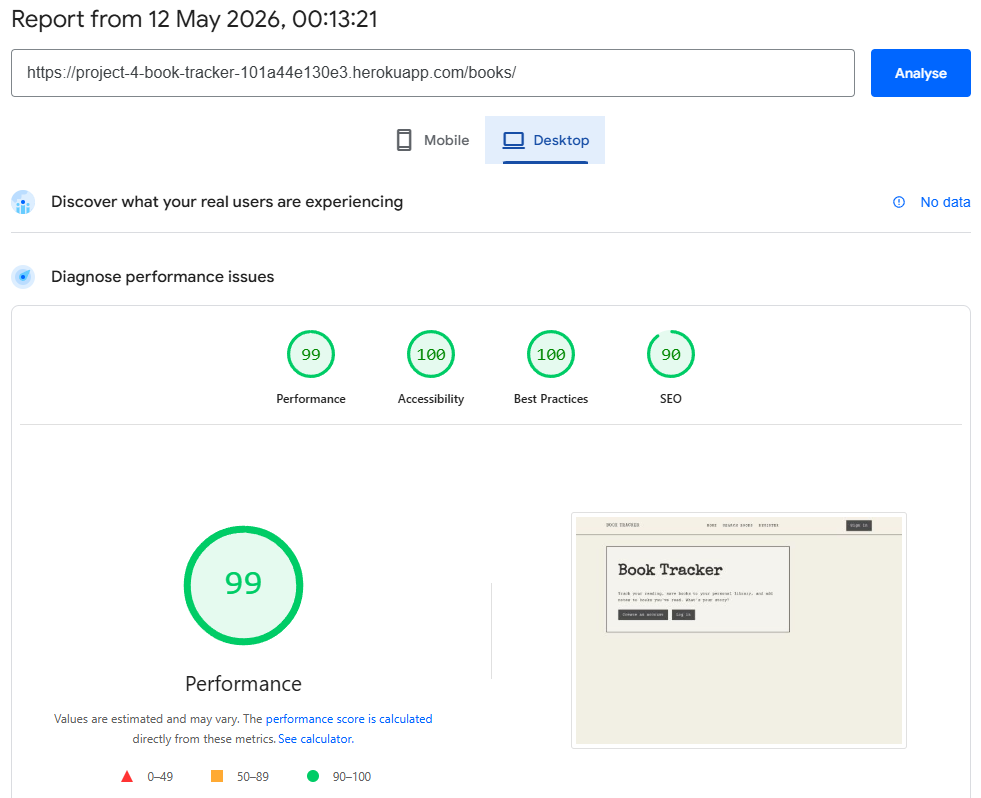
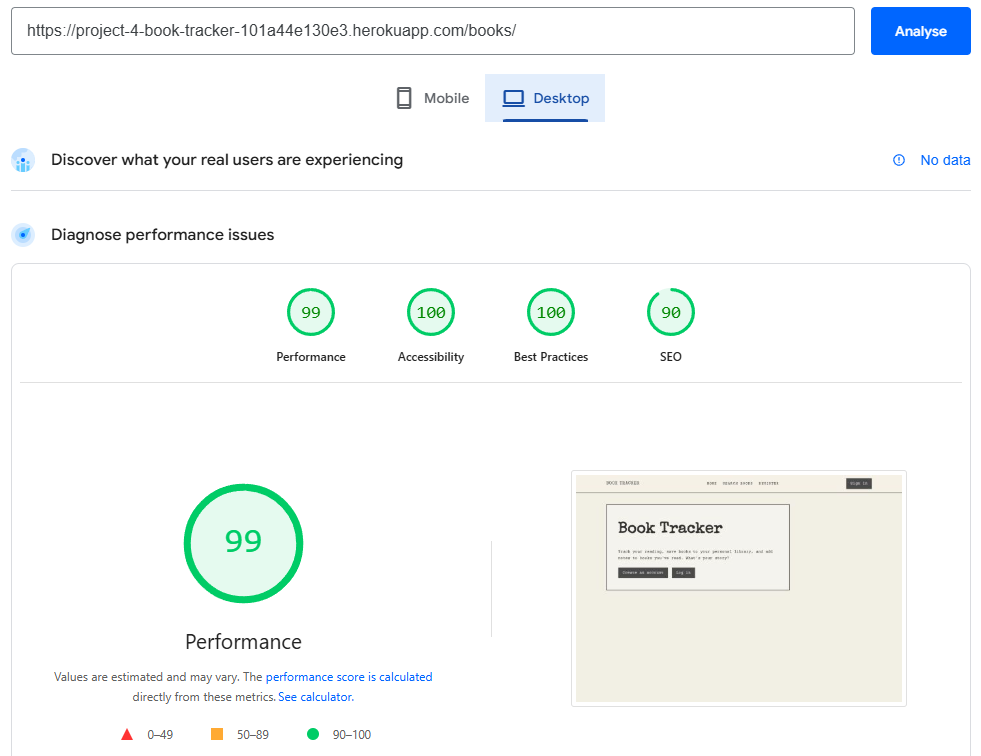
Added the ERD diagram.

diff --git a/templates/base.html b/templates/base.html
@@ -10,6 +10,8 @@
     <link rel="preconnect" href="https://fonts.gstatic.com" crossorigin>
     <link href="https://fonts.googleapis.com/css2?family=Courier+Prime:wght@400;700&family=Special+Elite&display=swap" rel="stylesheet">
 
+    <link rel="icon" type="image/x-icon" href="{% static 'images/favicon.ico' %}">
+
     <link rel="stylesheet" href="{% static 'css/base.css' %}">
 
     <title>Book Tracker</title>

diff --git a/README.md b/README.md
@@ -205,7 +205,7 @@ Each saved book belongs to one user. Each note belongs to one saved book. This c
 
 ### Entity Relationship Diagram
 
-ADD ERD IMAGE HERE
+![Book Tracker ERD](static/images/README/book-tracker-erd.png)
 
 ### Data Model Overview
 
@@ -394,7 +394,7 @@ The live Heroku site was used for this test. The test passed with no errors or w
 
 The live Heroku site was used for this test. The test passed with no errors or warnings:
 
-![W3C results](static/images/README/wsc-jigsaw-results.png)
+![W3C results](static/images/README/w3c-jigsaw-results.png)
 
 ### Pycodestyle Results
 